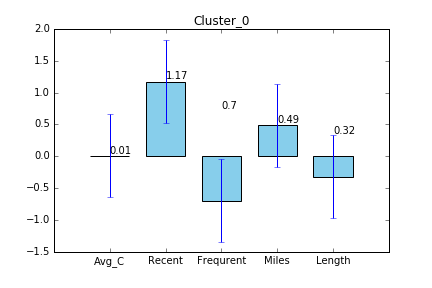
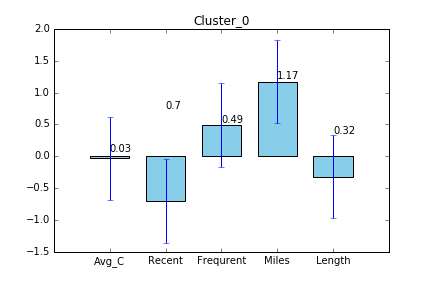
Finish Prediction

diff --git a/code/K_means_cluster.py b/code/K_means_cluster.py
@@ -7,22 +7,13 @@ Created on Wed Mar 28 05:34:39 2018
 
 import pandas as pd
 import numpy as np
-from sklearn.cluster import KMeans
 from matplotlib import pyplot as plt
 import csv
-import sys
 
-input_file = '../data/Processed_data/model_input.csv'
+import PlotEachCluster
 
-k = 5 # set the number of clustering
-
-data = pd.read_csv(input_file)
-
-k_model = KMeans(n_clusters=k, n_jobs=1) 
-k_model.fit(data)
-
-centers = k_model.cluster_centers_ #centery of clustering
-labels = k_model.labels_ #labels
+#input_file = '../data/Processed_data/model_input.csv'
+#data = pd.read_csv(input_file)
 
 #create a table that describe the result of cluster
 def resultOfCluster(center, labels):  
@@ -44,15 +35,16 @@ def resultOfCluster(center, labels):
                                'ZF',
                                'ZM',
                                'ZC'])
+    result_of_cluster.set_index('cluster_class', inplace=True)
     print result_of_cluster
     #save file
     #result_of_cluster.to_excel('../data/Processed_data/ResultOfCluster.xls', index=False)
-    return result_of_cluster
-
-#resultOfCluster(centers, labels)
+    #return result_of_cluster
 
 #return a dic contains all classes' values
 def resultOfClass(labels):
+    input_file = '../data/Processed_data/model_input.csv'
+    data = pd.read_csv(input_file)
     class_dic = {}
     for i in range(0, len(set(labels))):
         class_dic[str(i)] = []
@@ -62,47 +54,20 @@ def resultOfClass(labels):
         class_dic[str(label)].append(row)
     return class_dic
 
-def PlotEachCluster(data, laber):
-    data = [round(i, 2) for i in data]
-    
-    ind = np.arange(5)  # the x locations for the groups
-    width = 0.7  # the width of the bars
-    
-    fig, ax = plt.subplots()
-    rects1 = ax.bar(ind - width/2, data, width, yerr=(np.std(data)),
-                    color='SkyBlue')
-    
-    # Add some text for labels, title and custom x-axis tick labels, etc.
-    title = 'Cluster' + '_' + str(laber)
-    ax.set_title(title)
-    ax.set_xticks(ind)
-    ax.set_xticklabels(('Avg_C', 'Recent', 'Frequrent', 'Miles', 'Length'))
-    ax.legend()
-    
-    offset = {'center': 0.5, 'right': 0.57, 'left': 0.43}  # x_txt = x + w*off
-    
-    for rect in rects1:
-        height = rect.get_height()
-        ax.text(rect.get_x() + rect.get_width()*offset['center'], 1.01*height,
-                '{}'.format(height), va='bottom')
-    fig_path_name = '../data/result/' + str(laber)
-    plt.savefig(fig_path_name)
-    plt.show()
-
 #plot the each feature's situation
-def plotEveryFeature(class_dic):
+def plotEveryFeature(labels):
+    class_dic = resultOfClass(labels)
     for feature in range(0, 5):# C, R, F, M, L
         plot_arr = []
         for class_number in range(0, 5): #for every Class 
             arr = np.array(class_dic[str(class_number)])
             plot_arr.append(arr[:,feature].mean())
             #print plot_arr
-        PlotEachCluster(plot_arr, feature)
+        PlotEachCluster.PlotCluster(plot_arr, feature)
         
-class_dic = resultOfClass(labels)
-
 #write each categories to file.csv; target path is ../data/categories/
-def writeCategoryTofile(class_dic):
+def writeCategoryTofile(labels):
+    class_dic = resultOfClass(labels)
     for cate in class_dic.keys():
         cate_info = class_dic[cate]
         cate_arr = np.array(cate_info)
@@ -123,8 +88,7 @@ columns: dataset's columns
 k: numbers of cluster
 centers: center of each class
 '''
-def labelPlot(columns, k, centers):
-    labels = columns #labels
+def labelPlot(labels, k, centers):
     #k = 5 #numbers of data
     plot_data = centers
     color = ['b', 'g', 'r', 'c', 'y'] #set color
@@ -139,7 +103,7 @@ def labelPlot(columns, k, centers):
         ax.plot(angles, plot_data[i], 'o-', color = color[i], label = 'cate'+str(i), linewidth=2)# 画线
         ax.set_rgrids(np.arange(0.01, 3.5, 0.5), np.arange(-1, 2.5, 0.5), fontproperties="SimHei")
         ax.set_thetagrids(angles * 180/np.pi, labels, fontproperties="SimHei")
-    plt.legend(loc=5)
+    plt.legend(loc=3)
     plt.show()
-    
-plotEveryFeature(class_dic)
+
+

diff --git a/code/PlotEachCluster.py b/code/PlotEachCluster.py
@@ -1,0 +1,35 @@
+# -*- coding: utf-8 -*-
+"""
+Created on Mon Dec 24 03:36:51 2018
+
+@author: bob
+"""
+import matplotlib.pyplot as plt
+import numpy as np
+
+def PlotCluster(data, laber):
+    data = [round(i, 2) for i in data]
+    
+    ind = np.arange(5)  # the x locations for the groups
+    width = 0.7  # the width of the bars
+    
+    fig, ax = plt.subplots()
+    rects1 = ax.bar(ind - width/2, data, width, yerr=(np.std(data)),
+                    color='SkyBlue')
+    
+    # Add some text for labels, title and custom x-axis tick labels, etc.
+    title = 'Cluster' + '_' + str(laber)
+    ax.set_title(title)
+    ax.set_xticks(ind)
+    ax.set_xticklabels(('Avg_C', 'Recent', 'Frequrent', 'Miles', 'Length'))
+    ax.legend()
+    
+    offset = {'center': 0.5, 'right': 0.57, 'left': 0.43}  # x_txt = x + w*off
+    
+    for rect in rects1:
+        height = rect.get_height()
+        ax.text(rect.get_x() + rect.get_width()*offset['center'], 1.01*height,
+                '{}'.format(height), va='bottom')
+    fig_path_name = '../data/result/' + str(laber)
+    plt.savefig(fig_path_name)
+    plt.show()

diff --git a/code/test.py b/code/test.py
@@ -6,30 +6,6 @@ Created on Sun Dec 23 22:17:09 2018
 """
 import numpy as np
 import matplotlib.pyplot as plt
+import pandas as pd
 
-men_means = (20, 35, 30, 35, 27)
-
-def PlotEach(data):
-    ind = np.arange(5)  # the x locations for the groups
-    width = 0.7  # the width of the bars
-    
-    fig, ax = plt.subplots()
-    rects1 = ax.bar(ind - width/2, men_means, width, yerr=([1] * len(men_means)),
-                    color='SkyBlue', label='Men')
-    
-    # Add some text for labels, title and custom x-axis tick labels, etc.
-    ax.set_ylabel('Scores')
-    ax.set_title('Scores by group and gender')
-    ax.set_xticks(ind)
-    ax.set_xticklabels(('C', 'R', 'F', 'M', 'L'))
-    ax.legend()
-    
-    offset = {'center': 0.5, 'right': 0.57, 'left': 0.43}  # x_txt = x + w*off
-    
-    for rect in rects1:
-        height = rect.get_height()
-        ax.text(rect.get_x() + rect.get_width()*offset['center'], 1.01*height,
-                '{}'.format(height), va='bottom')
-    plt.show()
-
-PlotEach(men_means)
+data = pd.read_csv('/home/bob/Desktop/fly_project/data/Processed_data/data_statics.csv')

diff --git a/code/Clientdata.py b/code/Clientdata.py
@@ -1,0 +1,31 @@
+# -*- coding: utf-8 -*-
+"""
+Created on Mon Dec 24 04:26:26 2018
+
+@author: bob
+"""
+import numpy as np
+import pandas as pd
+#get data prepared
+
+#get dataset's mean and std return both
+def Get_Mean_Std():
+    data_mean_path = '../data/Processed_data/data_mean.csv'
+    data_std_path = '../data/Processed_data/data_std.csv'
+    mean = pd.read_csv(data_mean_path, names=['attr', 'mean']).T.ix['mean'].values
+    std = pd.read_csv(data_std_path, names=['attr', 'std']).T.ix['std'].values
+    return mean, std
+
+def Get_input_data():
+    print "Please input the Client's data"
+    Load_time = input("Load_time(0~200): ")
+    Last_to_end = input("Last_to_end(0~1000): ")
+    Flight_count = input("Flight_count(0~300): ")
+    Seg_km_sum = input("Seg_km_sum(0~600000): ")
+    Avg_discount = input("Avg_discount(0~1.5): ")
+    
+    mean, std = Get_Mean_Std()
+    input_data = np.array([Load_time, Last_to_end, Flight_count, \
+                                Seg_km_sum, Avg_discount])
+    model_input = (input_data-mean) / (std)
+    return model_input

diff --git a/code/Value_Predict.py b/code/Value_Predict.py
@@ -1,0 +1,29 @@
+# -*- coding: utf-8 -*-
+"""
+Created on Mon Dec 24 04:10:09 2018
+
+@author: bob
+"""
+#import py files
+import Clientdata
+import Kmeans
+import K_means_cluster
+
+#run model:
+input_file = '../data/Processed_data/model_input.csv'   #get model_input 
+K_means_model, centers, labels = Kmeans.kmeans()
+
+#display the detiles of the Cluster
+print "Details of Cluster"
+K_means_cluster.resultOfCluster(centers, labels)
+print "Every Attr Feature"
+K_means_cluster.plotEveryFeature(labels)
+print "Every Value Distribution"
+K_means_cluster.labelPlot(labels, 5, centers)
+
+#get prepared for predicting the Value of Client 
+input_data = Clientdata.Get_input_data()
+
+#Predict
+client_laber = K_means_model.predict(input_data)
+print "This Client's Value is {}\n".format(client_laber)

diff --git a/code/standardization.py b/code/standardization.py
@@ -9,12 +9,20 @@ import pandas as pd
 
 data_file = '../data/Processed_data/standardization.csv'
 data_output = '../data/Processed_data/model_input.csv'
+data_statics = '../data/Processed_data/data_statics.csv'
+data_mean_path = '../data/Processed_data/data_mean.csv'
+data_std_path = '../data/Processed_data/data_std.csv'
 
 #get input DataFrame
 data = pd.read_csv(data_file)
 
 #standardization procedure
 data = (data - data.mean(axis=0)) / (data.std(axis=0))
-data.columns = ['Z'+i for i in data.columns] #columns rename
+data_mean = data.mean(axis=0)
+data_std = data.std(axis=0)
+data_mean.to_csv(data_mean_path)
+data_std.to_csv(data_std_path)
 
+data.columns = ['Z'+i for i in data.columns] #columns rename
+#data_record.to_csv(data_statics)
 data.to_csv(data_output, index=False)

diff --git a/code/Kmeans.py b/code/Kmeans.py
@@ -1,0 +1,25 @@
+# -*- coding: utf-8 -*-
+"""
+Created on Mon Dec 24 04:34:44 2018
+
+@author: bob
+"""
+
+import pandas as pd
+from sklearn.cluster import KMeans
+
+#run Kmeans model
+#return model ,centers of each clusters and labels of the datasets
+def kmeans():
+    input_file = '../data/Processed_data/model_input.csv'
+    
+    k = 5 # set the number of clustering
+    
+    data = pd.read_csv(input_file)
+    
+    k_model = KMeans(n_clusters=k, n_jobs=7) 
+    k_model.fit(data)
+    
+    centers = k_model.cluster_centers_ #centery of clustering
+    labels = k_model.labels_ #labels
+    return k_model, centers, labels

diff --git a/code/data_clean.py b/code/data_clean.py
@@ -19,4 +19,4 @@ index2 = data['SUM_YR_2'] != 0 #ticket's price isn't zero in second year
 index3 = (data['SEG_KM_SUM'] != 0) & (data['avg_discount'] != 0)
 result = data[index1 | index2 | index3]
 
-result.to_excel(cleaned_data, index=False)
+#result.to_excel(cleaned_data, index=False)

diff --git a/code/data_explore.py b/code/data_explore.py
@@ -22,4 +22,4 @@ explore = data.describe(percentiles=[], include='all').T
 explore['null'] = len(data) - explore['count']
 explore['null_per'] = explore['null'] / len(data)
 explore = explore[['null', 'null_per', 'max', 'min']]
-explore.to_csv(result_file)
+#explore.to_csv(result_file)

diff --git a/code/attr_specification.py b/code/attr_specification.py
@@ -45,11 +45,12 @@ for index, row in data.iterrows():
 #return mon
 
 #write to csv 
+'''
 with open(data_output, 'w') as f:
     writer = csv.writer(f)
     writer.writerow(['L', 'R', 'F', 'M', 'C'])
     writer.writerows(result)
-
+'''
 
 
     
